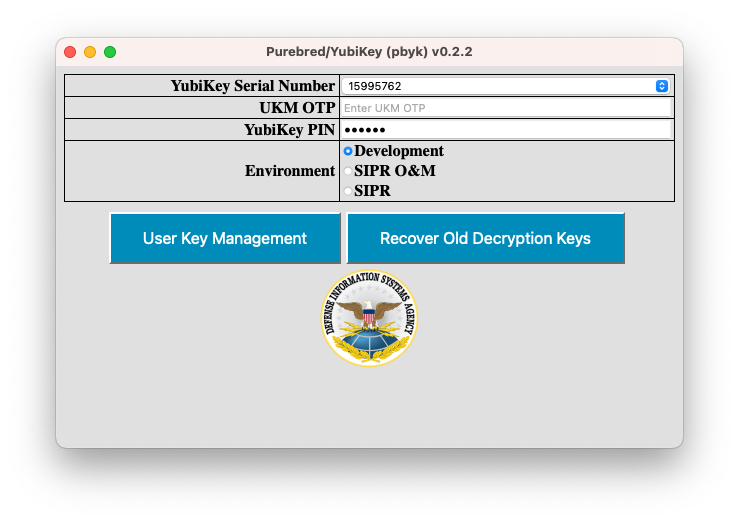
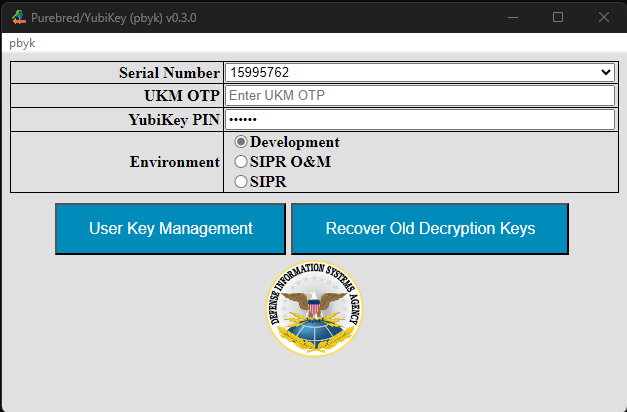
add content re: new support for TPM-based virtual smart cards on Windows systems

diff --git a/src/2_command_line.md b/src/2_command_line.md
@@ -1,13 +1,13 @@
 # Using pbyk from the command line
 
-The features provided by `pbyk` will vary with how the utility was built. Some builds may target different environments. 
+The features provided by `pbyk` will vary with how the utility was built and the platform. Some builds may target different environments. 
 Some may provide only a command-line interface, while others provide a graphical user interface (GUI)  and
 a command line interface. This chapter addresses usage of the command line interface.
 
 ## Usage
-As noted above, the available options depend on how the utility was compiled. The example below shows a build that targets
-the development, SIPR and O&M SIPR environments and that provides a GUI. The supported environments are evident in 
-the description for the `--environment` argument and the availability of the GUI is 
+As noted above, the available options depend on how the utility was compiled. The example below is from a Windows build
+that provides virtual smart card (VSC) support and that targets the development, SIPR and O&M SIPR environments and that
+provides a GUI. The supported environments are evident in the description for the `--environment` argument and the availability of the GUI is 
 evident by the presence of a `--interactive` argument. The `--interactive` argument can be used to exercise the utility  
 from a command line.
 
@@ -23,7 +23,7 @@ Options:
 
 Arguments:
   -a, --agent-edipi <AGENT_EDIPI>  EDIPI of Purebred Agent who provided the pre_enroll_otp or enroll_otp value
-  -s, --serial <SERIAL>            Serial number of YubiKey to provision (available YubiKeys can be listed using list_yubikeys); this is not required if only one YubiKey is present
+  -s, --serial <SERIAL>            Serial number of YubiKey or virtual smart card (VSC) to provision (available devices can be listed using list_yubikeys or list_vscs); this is not required if only one YubiKey or VSC is present
   -e, --environment <ENVIRONMENT>  Environment to target [possible values: dev, om-sipr, sipr]
 
 Actions:
@@ -42,7 +42,8 @@ Diagnostics:
 
 Utilities:
   -y, --list-yubikeys  Lists available YubiKey devices, if any
-  -r, --reset-yubikey  Resets the indicated YubiKey to a default state using a management key expected by Purebred applications
+  -v, --list-vscs      Lists available virtual smart card (VSC) devices, if any
+  -r, --reset-device   Resets the indicated device to a default state using a management key expected by Purebred applications
   -i, --interactive    Run pbyk as command line app
 
 Logging:
@@ -52,24 +53,36 @@ Logging:
           Log output to the console
 ```
 
+Though the usage instructions above include `--interactive`, the commands provided in this chapter were prepared using a
+build that did not provide a GUI so no `--interactive` argument is required.
+
 ## Purebred Workflow
 
 The Purebred workflow consists of four steps: [pre-enroll](#pre-enroll), [enroll](#enroll), [user key management](#user-key-management)
 and [recovery](#recover). When enrolling a YubiKey, these steps are preceded by a device [reset](#reset) operation. The
 reset step is necessary to prepare the device for enrollment by clearing previous contents and establishing usage of a 
-particular management key.
+particular management key. When enrolling a VSC, these steps are typically preceded by VSC creation (and deletion, as necessary). 
+See [chapter 4](4_miscellaneous.md#managing-virtual-smart-cards-with-tpmvscmgr) for details on creating and deleting VSCs.
 
-The following sections demonstrate enrolling a YubiKey device with the serial number 15995762 with the cooperation of a
-Purebred Agent whose EDIPI is 5533442211. 
+The following sections demonstrate enrolling a YubiKey device with the serial number 15995762 and a VSC with the name 
+"Microsoft Virtual Smart Card 0" with the cooperation of a Purebred Agent whose EDIPI is 5533442211. The steps are the same
+for YubiKeys and VSCs, with only the serial number value varying. For YubiKeys, the serial number of the device is used. For
+VSCs, the name of the device is used.
 
 ### Reset
 
-The first step is to list available YubiKeys. If you already know your YubiKey's serial number or if only one YubiKey 
-is present, this can be skipped (the serial number argument is only needed when more thn one device is available).
+The first step is to list available YubiKeys and/or VSCs. If you already know your device's serial number or if only one device 
+is present, this can be skipped (the serial number argument is only needed when more than one device is available).
 
 ```bash
 $ pbyk -y
 Name: Yubico YubiKey OTP+FIDO+CCID; Serial: 15995762
+```
+
+```bash
+> pbyk -v
+Name: Microsoft Virtual Smart Card 1
+Name: Microsoft Virtual Smart Card 0
 ```
 
 Next, reset the YubiKey so that it uses the expected management key.
@@ -83,6 +96,17 @@ Enter new PIN Unlock Key (PUK); PUKs must be 6 to 8 bytes in length:
 Re-enter new PIN Unlock Key (PUK): 
 ```
 
+A limited form of reset is provided for VSCs. For a reset comparable to that provided for Yubikeys, use the [tpmvscmgr](https://learn.microsoft.com/en-us/windows-server/administration/windows-commands/tpmvscmgr) utility.
+[Section 4](4_miscellaneous.md#managing-virtual-smart-cards-with-tpmvscmgr) provides some instructions for using tpmvscmgr
+to create or destroy VSCs. The reset support provided by `pbyk` only temporarily removes certificates associated with a VSC
+from the user's CAPI store to enable re-execution of the Purebred workflow. Keys corresponding to those certificates are not deleted from the VSC and may be re-registered
+with CAPI by the operating system. No PIN entry is required because the VSC itself is not being reset or recreated.
+
+```bash
+>pbyk -s "Microsoft Virtual Smart Card 0" -r
+Starting reset of VSC with serial number Microsoft Virtual Smart Card 0. This may take a few seconds.
+```
+
 ### Pre-enroll
 
 The next two steps, Pre-enroll and Enroll, require Purebred Agent participation. The agent should provide their EDIPI and a 
@@ -94,6 +118,20 @@ Enter PIN:
 Pre-enroll completed successfully: 07E7730D014D55AFA800609C962E9FF40B61A5AD70E07AAC95E9F6911C4B48E1
 ```
 
+When enrolling a VSC, PIN entry is not performed directly using `pbyk`. Instead, a PIN entry dialog is displayed by the 
+Windows virtual smart card system.
+
+<div align="center">
+    <img src="screenshots/vsc_pin_entry.png" width="400pm">
+</div>
+
+Pre-enrollment of a VSC is as shown above, but with the VSC name used as the serial number.
+
+```bash
+> pbyk -s "Microsoft Virtual Smart Card 0" -a 5533442211 -1 05041153
+Pre-enroll completed successfully: 27E2751C3BD47AC24B6328179E081240FC586738
+```
+
 ### Enroll
 
 Next, the Purebred Agent will affirm the hash value displayed during pre-enrollment to establish trust in the device and will provide an Enrollment OTP.
@@ -102,6 +140,14 @@ As with Pre-enrollment, the Enrollment operation must be completed within three 
 ```bash
 $ pbyk -s 15995762 -a 5533442211 -2 63999319
 Enter PIN: 
+Enroll completed successfully
+```
+
+Enrollment of a VSC is as shown above, but with the VSC name used as the serial number. As with pre-enrollment, the Windows
+virtual smart card system will prompt for the VSC PIN.
+
+```bash
+> pbyk -s "Microsoft Virtual Smart Card 0" -a 5533442211 -2 30800612 -e dev
 Enroll completed successfully
 ```
 
@@ -118,6 +164,14 @@ Enter PIN:
 UKM completed successfully
 ```
 
+Provisioning user keys to a VSC is as shown above, but with the VSC name used as the serial number.  As with pre-enrollment
+and enrollment, the Windows virtual smart card system will prompt for the VSC PIN. Note, key generation in a virtual smart card
+is relatively slow. The UKM step may take several minutes.
+
+```bash
+> pbyk -s 15995762 -3 26727573
+UKM completed successfully
+```
 ### Recover
 
 The Recover operation is optional and follows the same steps as described for UKM. After obtaining a UKM OTP complete
@@ -127,5 +181,15 @@ generating the OTP value.
 ```bash
 $ pbyk -s 15995762 -4 30468894
 Enter PIN: 
+Recover completed successfully
+```
+
+Recovering user keys to a VSC is as shown above, but with the VSC name used as the serial number.  As with pre-enrollment
+and enrollment, the Windows virtual smart card system will prompt for the VSC PIN. In some cases, installation of a recovered
+key into a VSC will fail, in which case a prompt will be displayed to the user and the key will be installed as a software
+credential.
+
+```bash
+> pbyk -s 15995762 -4 69550720
 Recover completed successfully
 ```

diff --git a/src/3_gui.md b/src/3_gui.md
@@ -7,15 +7,20 @@ a command line interface. This chapter addresses usage via the GUI.
 ## Purebred Workflow
 
 The Purebred workflow consists of four steps: [pre-enroll](#pre-enroll), [enroll](#enroll), [user key management](#user-key-management)
-and [recovery](#recover). When enrolling a YubiKey, these steps are preceded by a device [reset](#reset) operation.
+and [recovery](#recover). When enrolling a YubiKey, these steps are preceded by a device [reset](#reset) operation.  The
+reset step is necessary to prepare the device for enrollment by clearing previous contents and establishing usage of a
+particular management key. When enrolling a VSC, these steps are preceded by VSC creation (and deletion, as necessary).
+See [chapter 4](4_miscellaneous.md#managing-virtual-smart-cards-with-tpmvscmgr) for details on creating and deleting VSCs.
 
-The following sections demonstrate enrolling a YubiKey device with the serial number 15995762 with the cooperation of a
-Purebred Agent whose EDIPI is 5533442211. 
+The following sections demonstrate enrolling a YubiKey device with the serial number 15995762 and a VSC with the name
+"Microsoft Virtual Smart Card 0" with the cooperation of a Purebred Agent whose EDIPI is 5533442211. The steps are the same
+for YubiKeys and VSCs, with only the serial number value varying. For YubiKeys, the serial number of the device is used. For
+VSCs, the name of the device is used.
 
 ### Reset
 
 The reset feature can be accessed in one of two ways depending on the state of the device. For devices that have not
-been enrolled with Purebred previously, and thus have a different management key installed, simply launching the pbyk app
+been enrolled with Purebred previously, and thus have a different management key installed, simply launching the `pbyk` app
 will display an alert like the one shown below.
 
 <div align="center">
@@ -32,6 +37,17 @@ the reset process.
     <img src="screenshots/reset.png">
 </div>
 
+A limited form of reset is provided for VSCs. For a reset comparable to that provided for Yubikeys, use the [tpmvscmgr](https://learn.microsoft.com/en-us/windows-server/administration/windows-commands/tpmvscmgr) utility.
+[Section 4](4_miscellaneous.md#managing-virtual-smart-cards-with-tpmvscmgr) provides some instructions for using tpmvscmgr
+to create or destroy VSCs. The reset support provided by `pbyk` only temporarily removes certificates associated with a VSC
+from the user's CAPI store to enable re-execution of the Purebred workflow. Keys corresponding to those certificates are not deleted from the VSC and may be re-registered
+with CAPI by the operating system. When resetting a VSC, the same steps as used for Yubikeys apply, with the exception that
+no PIN or PUK values need to be provided, as shown below.
+
+<div align="center">
+    <img src="screenshots/reset_vsc.png">
+</div>
+
 ### Pre-enroll
 
 The next two steps require Purebred Agent participation. The agent should provide their EDIPI and a 
@@ -44,8 +60,15 @@ whose EDIPI is 5533442211.
     <img src="screenshots/pre_enroll.png">
 </div>
 
-The YubiKey Serial Number field is a drop list and will feature multiple options when multiple YubiKeys are available.
+The YubiKey Serial Number field is a drop list and will feature multiple options when multiple YubiKeys and/or VSCs are available.
 When a different device is changed, the form displayed by the app may change to match the state of the newly selected device.
+
+When pre-enrolling a VSC, the process is similar except there is no PIN field, as the Windows virtual smart card system will prompt
+the user for the PIN directly.
+
+<div align="center">
+    <img src="screenshots/pre_enroll_vsc.png">
+</div>
 
 ### Enroll
 
@@ -57,6 +80,13 @@ As with Pre-enrollment, the Enrollment operation must be completed within three 
 </div>
 
 The YubiKey Serial Number field is a read-only text box and will feature the value selected on the Pre-enroll view.
+
+When enrolling a VSC, the process is similar except there is no PIN field, as the Windows virtual smart card system will prompt
+the user for the PIN directly.
+
+<div align="center">
+    <img src="screenshots/enroll_vsc.png">
+</div>
 
 ### User key management
 
@@ -72,10 +102,17 @@ generating the OTP value.
 The YubiKey Serial Number field is a drop list and will feature multiple options when multiple YubiKeys are available.
 When a different device is changed, the form displayed by the app may change to match the state of the newly selected device.
 
+When provisioning user keys to a VSC, the process is similar except there is no PIN field, as the Windows virtual smart card system will prompt
+the user for the PIN directly. Note, key generation in a virtual smart card is relatively slow. The UKM step may take several minutes.
+
+<div align="center">
+    <img src="screenshots/ukm_vsc.png">
+</div>
+
 ### Recover
 
 The Recover operation is optional and follows the same steps as described for UKM. After obtaining a UKM OTP complete
-the Recover operation as shown below taking care to clcik the `Recover Old Decryption Keys` checkbox before clicking the
+the Recover operation as shown below taking care to click the `Recover Old Decryption Keys` checkbox before clicking the
 `User Key Management` button. The recovery process must be completed within three minutes of generating the OTP value.
 
 <div align="center">
@@ -84,6 +121,15 @@ the Recover operation as shown below taking care to clcik the `Recover Old Decry
 
 The YubiKey Serial Number field is a drop list and will feature multiple options when multiple YubiKeys are available.
 When a different device is changed, the form displayed by the app may change to match the state of the newly selected device.
+
+When recovering keys to a VSC, the process is similar except there is no PIN field, as the Windows virtual smart card system will prompt
+the user for the PIN directly. In some cases, installation of a recovered key into a VSC will fail, in which case a prompt will be displayed
+to the user and the key will be installed as a software
+credential.
+
+<div align="center">
+    <img src="screenshots/recover_vsc.png">
+</div>
 
 ## Using command-line interface
 
@@ -114,3 +160,5 @@ $ ./pbyk -s 15995762 -e dev -i -4 41537238
 Enter PIN for YubiKey with serial number 15995762: 
 Recover completed successfully
 ```
+
+Provisioning a VSC in this fashion is similar, with the VSC name used as the serial number value.

diff --git a/src/5_known_issues.md b/src/5_known_issues.md
@@ -1,10 +1,16 @@
 # Known Issues
 
 ## General
-- NIPR and O&M NIPR builds are not presently supported owing to lack of support for BER decoding in the `cms` crate and the current NIPR CA's usage of BER encoding when returning CA certificates during SCEP processing
+- NIPR and O&M NIPR builds are not presently supported owing to lack of support for BER decoding in the `cms` crate used by `pbyk` and the current NIPR CA's usage of BER encoding when returning CA certificates during SCEP processing.  The next NIPR CA update should enable these features to be used.
 - GUI support is not presently provided for Linux
 
 ## GUI mode
-- Copy and Paste does not work on MacOS (see [Dioxus issue 1691](https://github.com/DioxusLabs/dioxus/issues/1691))
+- Copy and Paste does not work on macOS (see [Dioxus issue 1691](https://github.com/DioxusLabs/dioxus/issues/1691))
+- Console window may remain visible when run in GUI mode except on Windows
 - State information is only saved when an action is performed, not when app is closed
-- YubiKey reset capability is not available on MacOS on x86_64 hardware
+- YubiKey reset capability is not available on macOS on x86_64 hardware
+
+## Windows
+- When the VSC feature is used, the app takes several seconds to close
+- On Windows 11, elevated permissions are required to generate attestations. On Windows 10, attestations are available without elevated permissions. On Windows 11, use of elevated permissions (or not) should remain constant throughout enrollment. For example, enrolling with elevation then performing UKM without will not work. A device must be deleted on the portal to remove attestation expectation once it has been established.
+- The VSC state information maintained in the .pbyk folder in the user's home directory will grow without bound across multiple reset generations. The file can be manually deleted when a VSC is destroyed and recreated as a mitigation.

diff --git a/src/4_miscellaneous.md b/src/4_miscellaneous.md
@@ -23,8 +23,21 @@ to lock then reset a YubiKey.
 The reset_yubikey function is intended to perform the equivalent steps.
 
 The caller is assumed to have enforced PIN and PUK requirements. If either the PIN or PUK fails
-to satisfy requirements (as described [here](https://docs.yubico.com/yesdk/users-manual/application-piv/pin-puk-mgmt-key.html),
+to satisfy requirements (as described [here](https://docs.yubico.com/yesdk/users-manual/application-piv/pin-puk-mgmt-key.html)),
 then the attempt to set the PIN or PUK will fail.
+
+## Managing virtual smart cards with tpmvscmgr
+
+Windows provides the [tpmvscmgr](https://learn.microsoft.com/en-us/windows-server/administration/windows-commands/tpmvscmgr) utility to create and destroy virtual smarts. The commands below will destroy the first
+virtual smart card on a system, then create new one using the default PIN value and a random administrator key. The 
+"/attestation AIK_AND_CERT" portion of this command is required when creating VSCs for use with Purebred where attestations 
+are to be used. Where attestations are not available, `pbyk` will attempt to perform enrollment without attestations.
+Use of a non-default PIN value is recommended.
+
+```bash
+TpmVscMgr destroy /instance root\smartcardreader\0000
+TpmVscMgr create /name MyVSC /pin default /adminkey random /generate /attestation AIK_AND_CERT
+```
 
 ## Sample logging configuration
 

diff --git a/src/1_intro.md b/src/1_intro.md
@@ -1,7 +1,8 @@
 # Introduction
 
-The `pbyk` utility is a provides a command line interface and/or GUI interface to enroll YubiKeys with a Purebred instance. Purebred is a derived
-credential issuance system used by the U.S. Department of Defense. 
+The `pbyk` utility is a provides a command line interface and/or GUI interface to enroll [YubiKeys](https://www.yubico.com/products/yubikey-fips/)
+with a [Purebred](https://public.cyber.mil/pki-pke/purebred/) instance. On Windows systems, support for enrolling [trusted platform module (TPM)-based
+virtual smart cards (VSCs)](https://learn.microsoft.com/en-us/windows/security/identity-protection/virtual-smart-cards/virtual-smart-card-overview) is also available.  Purebred is a [derived credential](https://csrc.nist.gov/pubs/sp/800/157/final) issuance system used by the U.S. Department of Defense.
 
 As with all Purebred apps, enrollment requires the participation of a Purebred Agent. Specifically, when enrolling
 the device, you will need a Purebred Agent's EDIPI and a pair of one-time password values generated by that agent and
